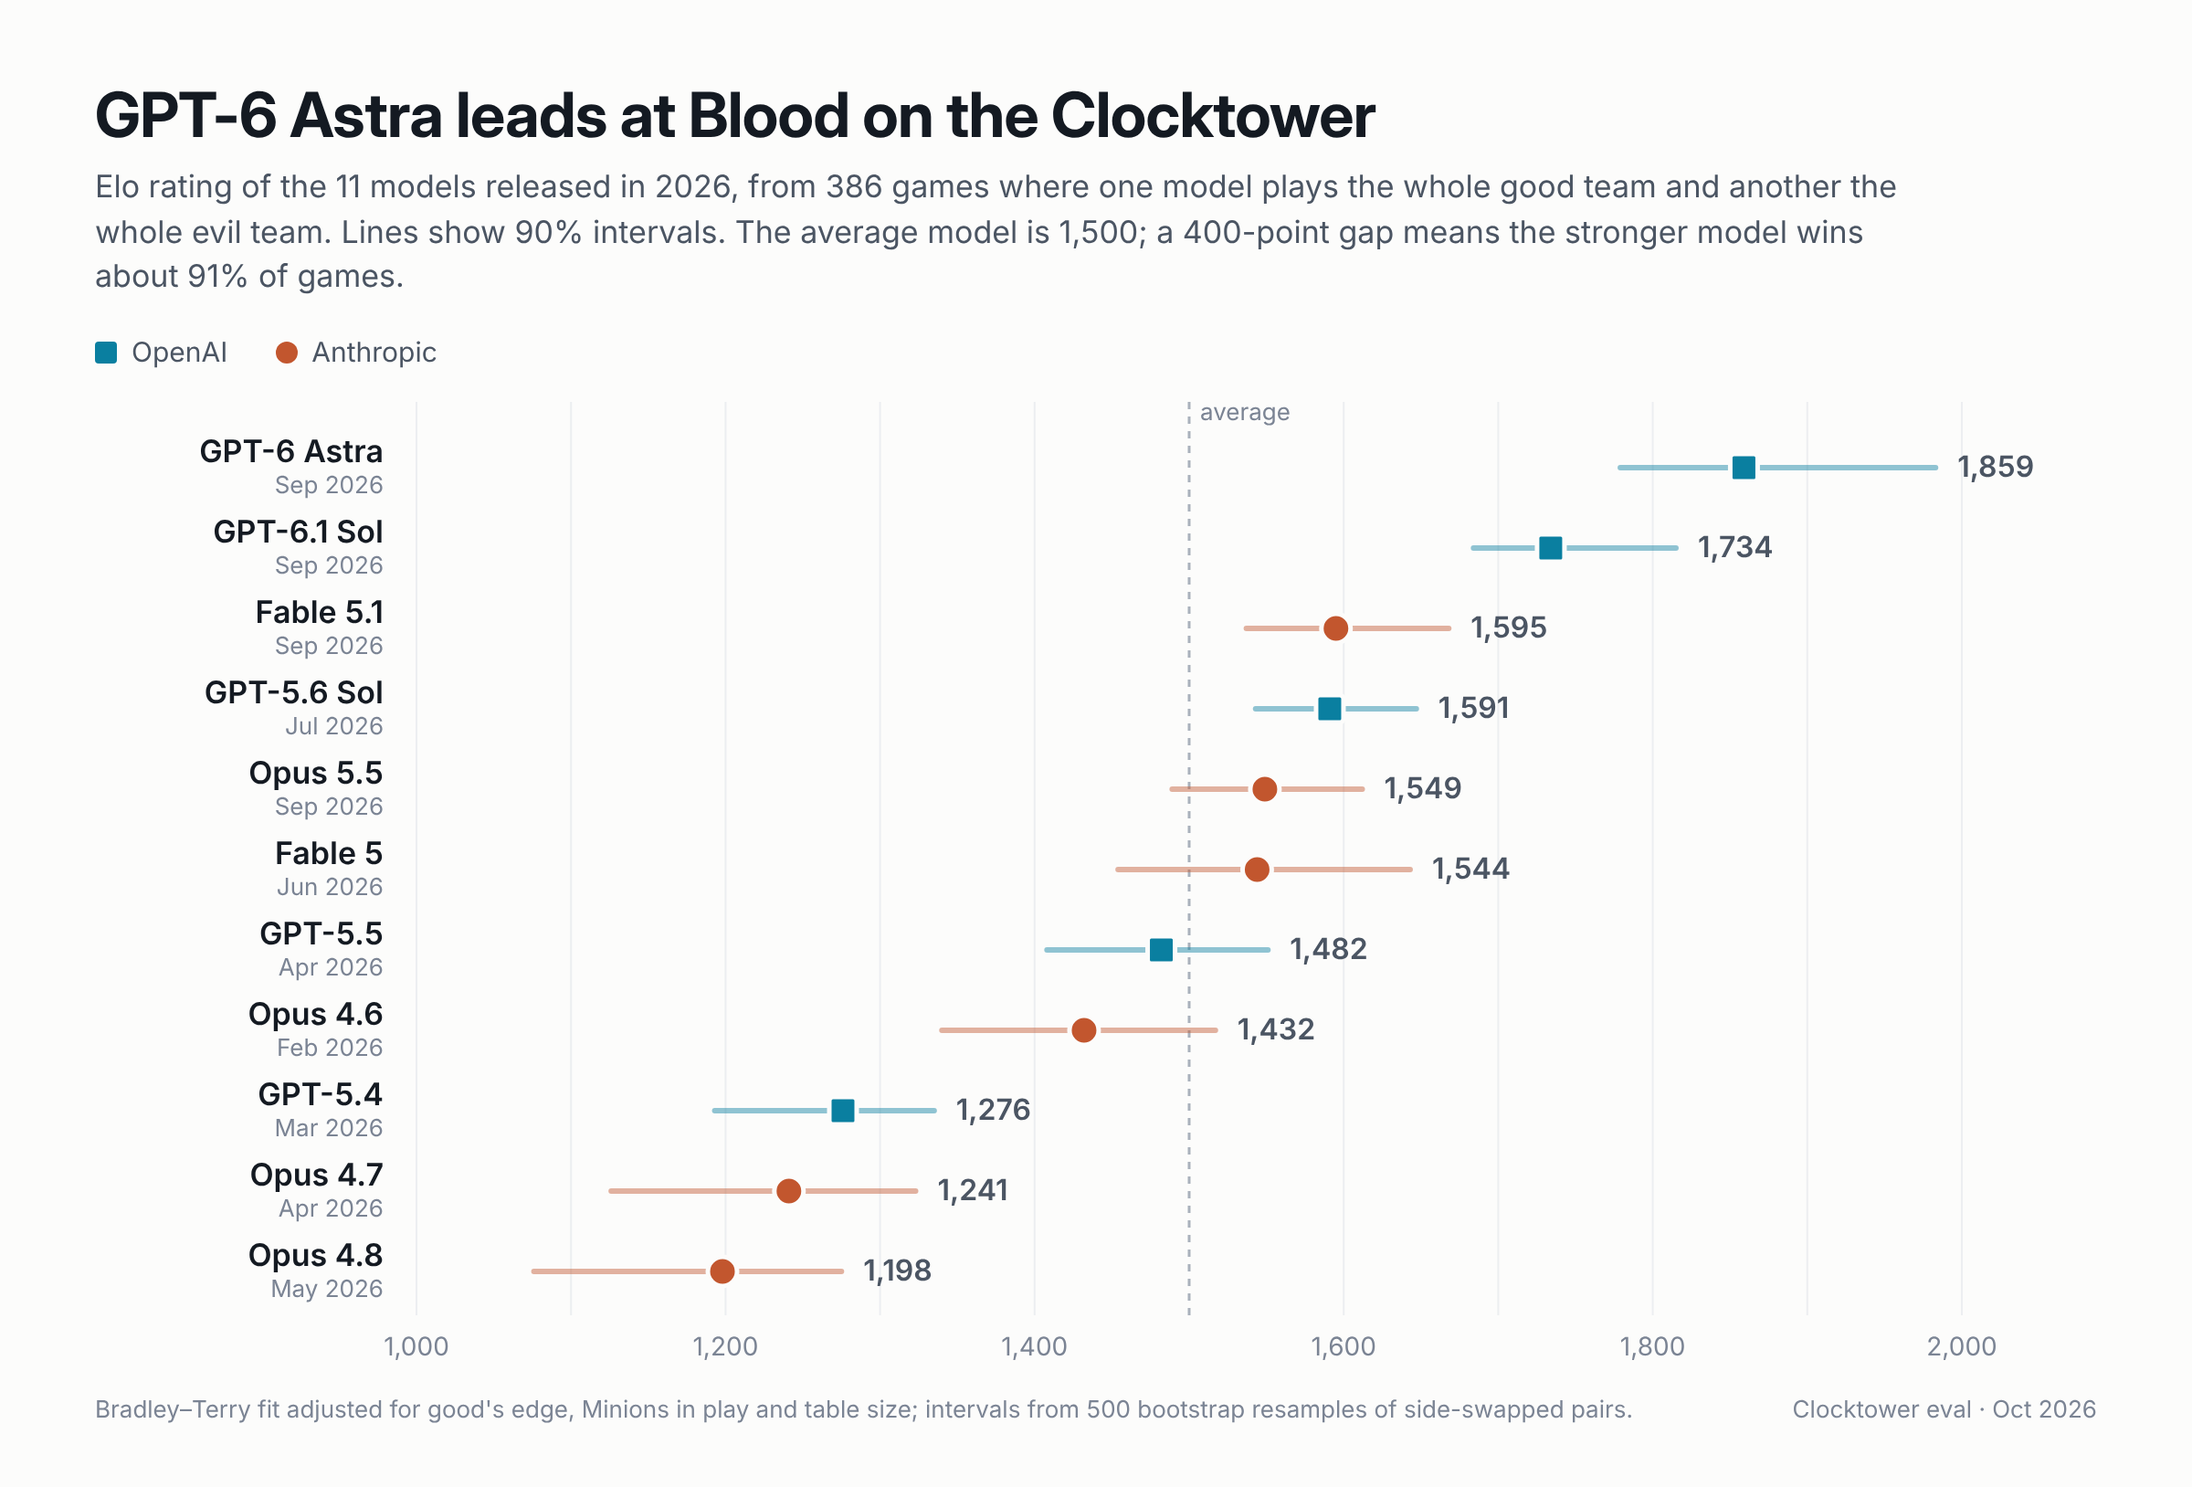
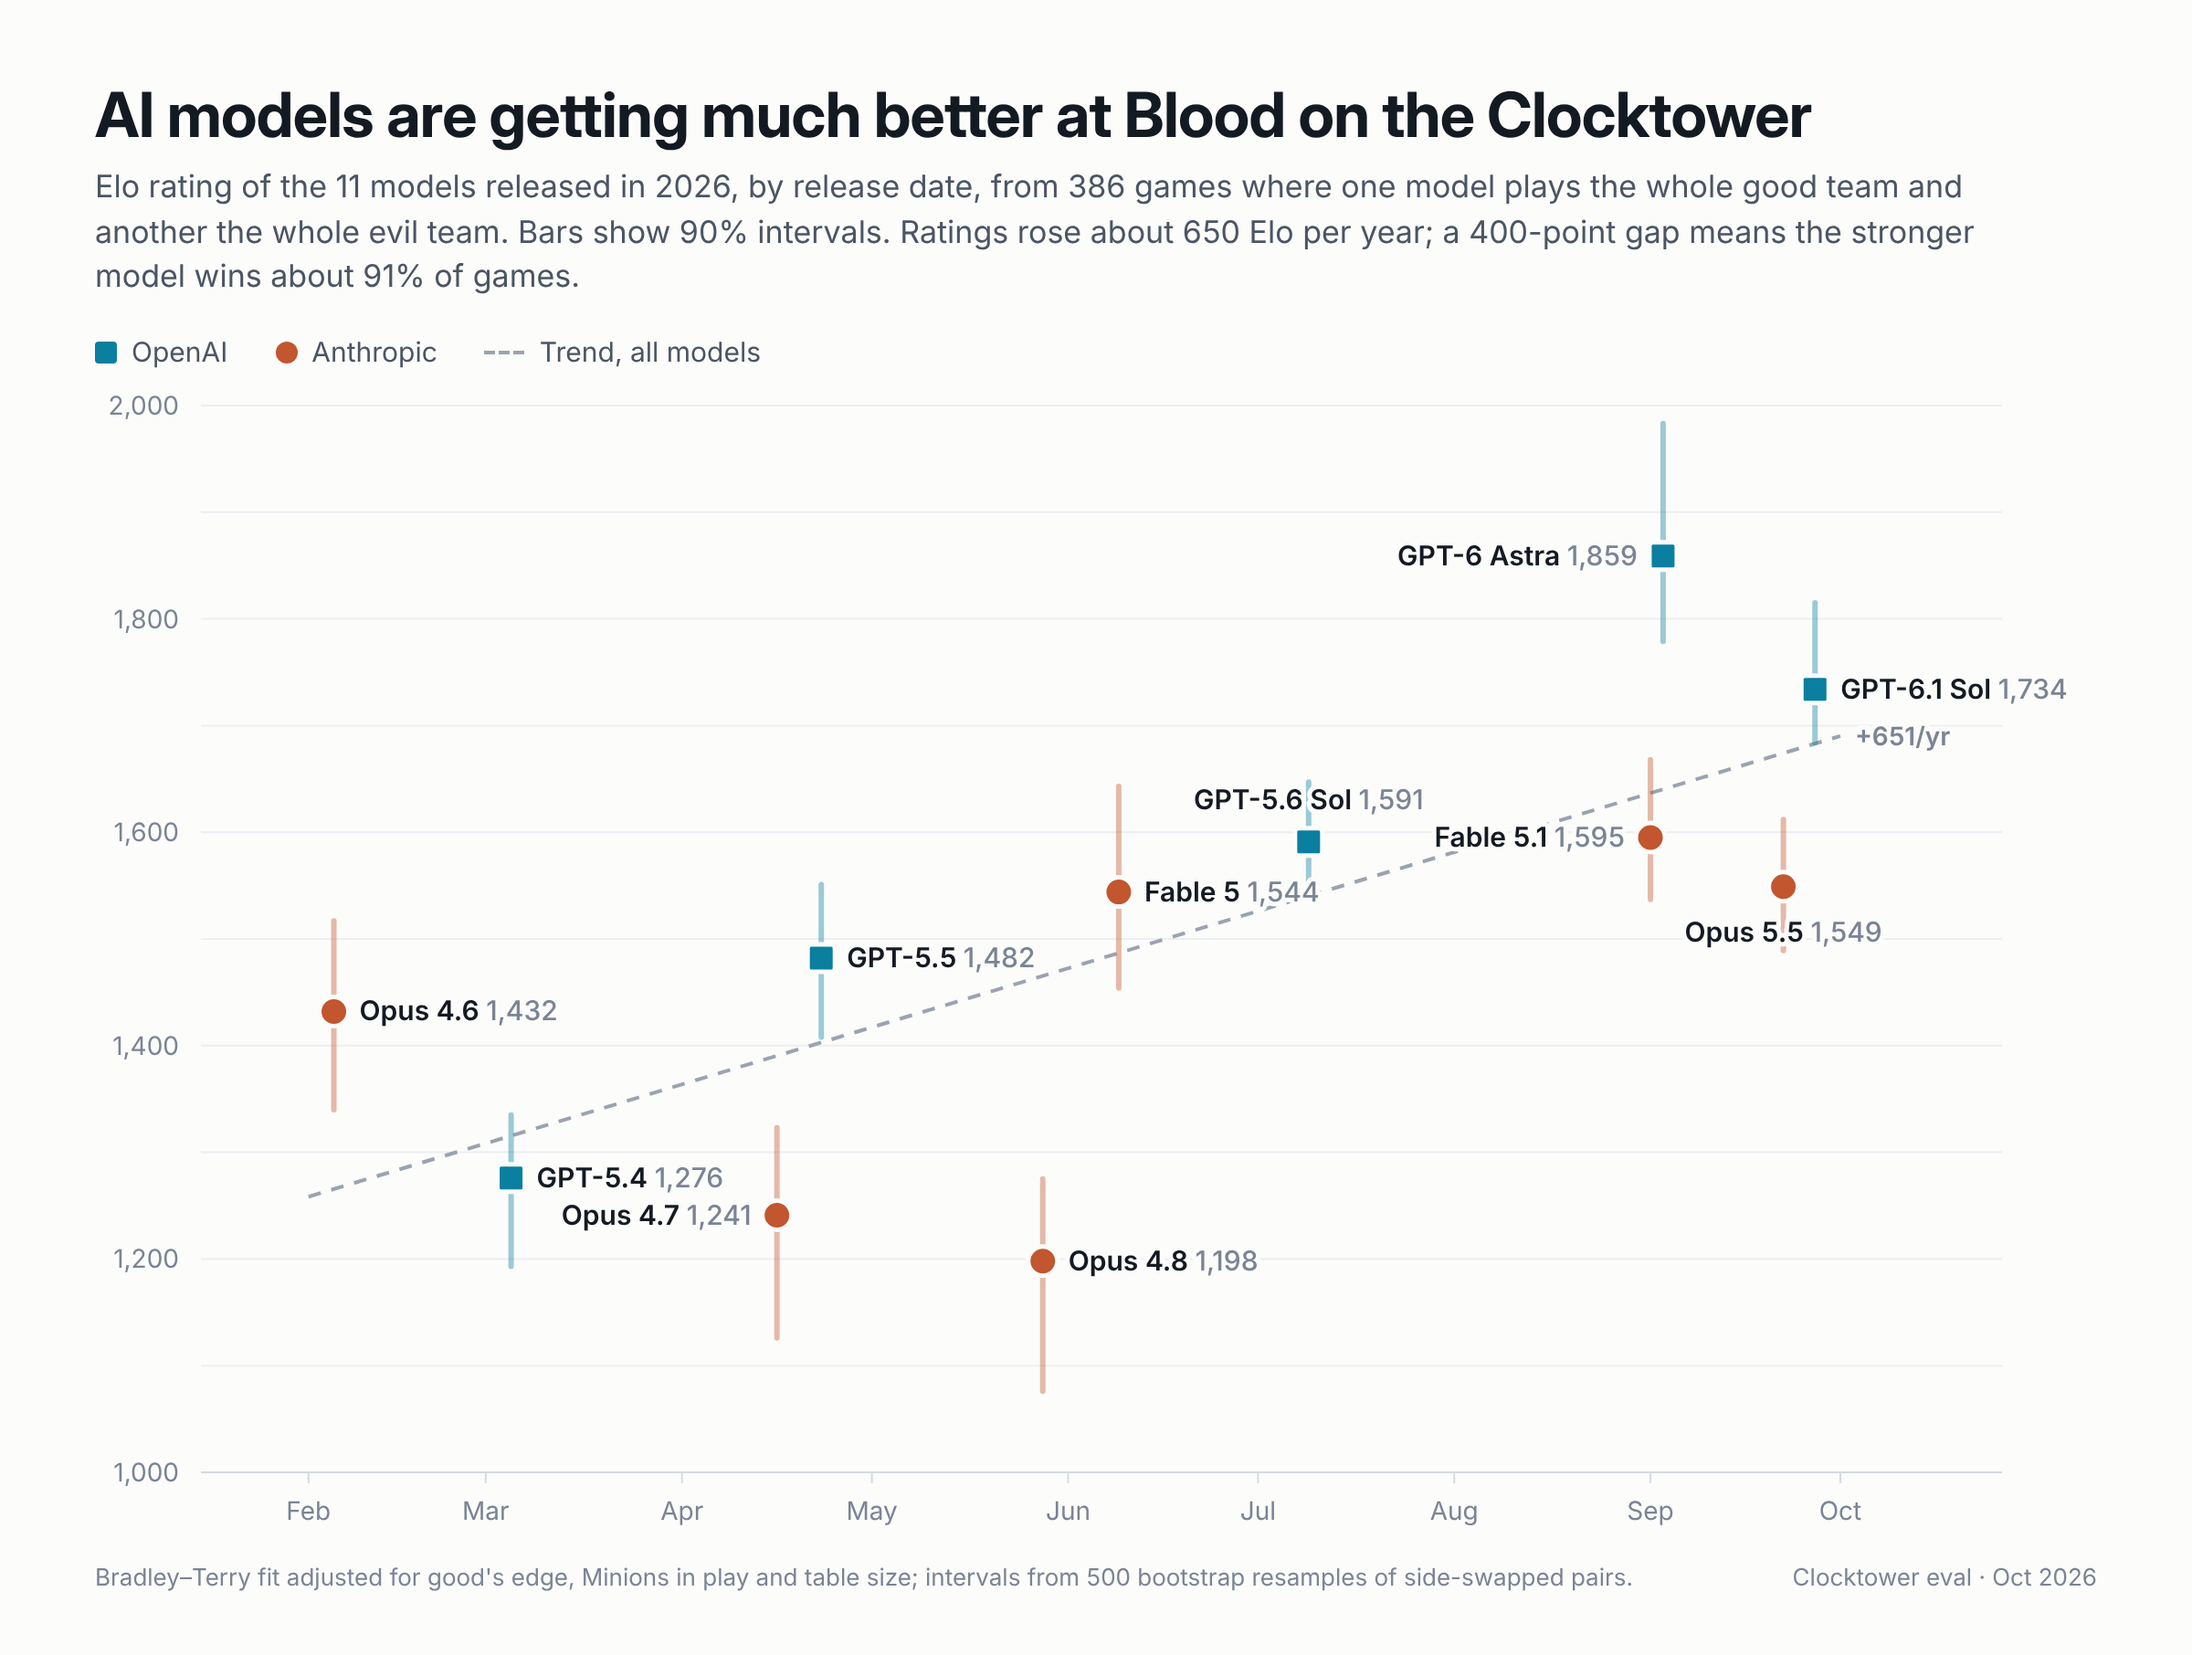
Final ratings chart: release date on the x axis, trend line, no average line
Claude-Session: https://claude.ai/code/session_01NeG7uqGziC8ecmubxuFhiw

diff --git a/docs/charts/final-ratings.html b/docs/charts/final-ratings.html
@@ -1,42 +1,56 @@
 <!doctype html><meta charset="utf-8"><title>Clocktower final ratings</title>
 <style>
-/* Static chart for the blog (rendered to PNG by final-ratings.js): ranked dots with 90% intervals. */
+/* Static chart for the blog (rendered to PNG): Elo by release date with 90% intervals and the all-model trend. */
 :root{--bg:#fcfcfb;--ink:#141a22;--ink2:#4b5563;--muted:#7b8494;--grid:#eceef1;--rule:#d6dae0;--anth:#C2562E;--oai:#0A7FA0}
 html,body{margin:0;background:var(--bg)}
 body{width:1200px;font-family:Inter,system-ui,sans-serif;color:var(--ink)}
 .wrap{padding:44px 52px 34px}
 h1{font:700 34px/1.15 "Inter Display",Inter,sans-serif;margin:0 0 8px;letter-spacing:-.01em}
-.sub{font-size:17px;line-height:1.45;color:var(--ink2);margin:0 0 18px;max-width:1000px}
-.legend{display:flex;gap:26px;font-size:15px;color:var(--ink2);margin-bottom:6px;align-items:center}
+.sub{font-size:17px;line-height:1.45;color:var(--ink2);margin:0 0 18px;max-width:1040px}
+.legend{display:flex;gap:26px;font-size:15px;color:var(--ink2);margin-bottom:4px;align-items:center}
 .legend i{display:inline-block;width:12px;height:12px;margin-right:8px;vertical-align:-1px}
+.legend b{display:inline-block;width:22px;border-top:2px dashed #9aa3af;margin-right:8px;vertical-align:4px}
 svg text{font-family:Inter,sans-serif}
-.foot{font-size:13px;color:var(--muted);margin-top:6px;display:flex;justify-content:space-between}
+.foot{font-size:13px;color:var(--muted);margin-top:6px;display:flex;justify-content:space-between;gap:20px}
 </style>
 <div class="wrap">
-  <h1>GPT-6 Astra leads at Blood on the Clocktower</h1>
-  <p class="sub">Elo rating of the 11 models released in 2026, from 386 games where one model plays the whole good team and another the whole evil team. Lines show 90% intervals. The average model is 1,500; a 400-point gap means the stronger model wins about 91% of games.</p>
-  <div class="legend"><span><i style="background:var(--oai);border-radius:2px"></i>OpenAI</span><span><i style="background:var(--anth);border-radius:50%"></i>Anthropic</span></div>
+  <h1>AI models are getting much better at Blood on the Clocktower</h1>
+  <p class="sub">Elo rating of the 11 models released in 2026, by release date, from 386 games where one model plays the whole good team and another the whole evil team. Bars show 90% intervals. Ratings rose about 650 Elo per year; a 400-point gap means the stronger model wins about 91% of games.</p>
+  <div class="legend"><span><i style="background:var(--oai);border-radius:2px"></i>OpenAI</span><span><i style="background:var(--anth);border-radius:50%"></i>Anthropic</span><span><b></b>Trend, all models</span></div>
   <svg id="c"></svg>
   <div class="foot"><span>Bradley–Terry fit adjusted for good's edge, Minions in play and table size; intervals from 500 bootstrap resamples of side-swapped pairs.</span><span>Clocktower eval · Oct 2026</span></div>
 </div>
 <script>
 const D=__DATA__;
 const N={'claude-opus-4-6':'Opus 4.6','gpt-5.4':'GPT-5.4','claude-opus-4-7':'Opus 4.7','gpt-5.5':'GPT-5.5','claude-opus-4-8':'Opus 4.8','claude-fable-5':'Fable 5','gpt-5.6-sol':'GPT-5.6 Sol','claude-fable-5-1':'Fable 5.1','gpt-6-astra':'GPT-6 Astra','claude-opus-5-5':'Opus 5.5','gpt-6.1-sol':'GPT-6.1 Sol'};
+// label side per model, chosen so neighbours with close release dates don't collide
+const SIDE={'gpt-6-astra':'left','claude-fable-5-1':'left','claude-opus-5-5':'below','gpt-6.1-sol':'right','gpt-5.6-sol':'above','claude-opus-4-7':'left','gpt-5.5':'right'};
 const MON=['Jan','Feb','Mar','Apr','May','Jun','Jul','Aug','Sep','Oct','Nov','Dec'];
-const rows=[...D.models].sort((a,b)=>b.combined-a.combined);
 const NS='http://www.w3.org/2000/svg',svg=document.getElementById('c');
 const el=(t,a,x)=>{const e=document.createElementNS(NS,t);for(const k in a)e.setAttribute(k,a[k]);if(x!=null)e.textContent=x;svg.appendChild(e);return e};
-const W=1096,RH=44,T=22,B=40,L=176,R=74,H=T+B+RH*rows.length,lo=1000,hi=2000,x=v=>L+(v-lo)/(hi-lo)*(W-L-R);
+const W=1096,H=640,L=58,R=92,T=16,B=40,lo=1000,hi=2000;
+const day=s=>Date.UTC(+s.slice(0,4),+s.slice(5,7)-1,+s.slice(8,10)),t0=Date.UTC(2026,0,15),t1=Date.UTC(2026,9,15);
+const x=s=>L+(day(s)-t0)/(t1-t0)*(W-L-R), y=v=>T+(hi-v)/(hi-lo)*(H-T-B);
 svg.setAttribute('width',W);svg.setAttribute('height',H);
-for(let v=lo;v<=hi;v+=100){el('line',{x1:x(v),x2:x(v),y1:T-10,y2:H-B+6,stroke:v===1500?'#aab1bc':'#eceef1','stroke-width':v===1500?1.5:1,'stroke-dasharray':v===1500?'4 4':''});
-  if(v%200===0)el('text',{x:x(v),y:H-B+28,'text-anchor':'middle','font-size':14,fill:'#7b8494'},v.toLocaleString('en-US'))}
-el('text',{x:x(1500)+6,y:T-0,'font-size':13,fill:'#7b8494'},'average');
-rows.forEach((m,i)=>{const y=T+RH*i+RH/2,c=m.lab==='Anthropic'?'#C2562E':'#0A7FA0',mon=MON[+m.date.slice(5,7)-1];
-  el('text',{x:L-18,y:y+1,'text-anchor':'end','font-size':17,'font-weight':600,fill:'#141a22'},N[m.id]);
-  el('text',{x:L-18,y:y+18,'text-anchor':'end','font-size':13,fill:'#7b8494'},mon+' 2026');
-  el('line',{x1:x(m.c90[0]),x2:x(m.c90[1]),y1:y+4,y2:y+4,stroke:c,'stroke-width':3,'stroke-linecap':'round','stroke-opacity':.45});
-  if(m.lab==='Anthropic')el('circle',{cx:x(m.combined),cy:y+4,r:8,fill:c,stroke:'#fcfcfb','stroke-width':2.5});
-  else el('rect',{x:x(m.combined)-7.5,y:y+4-7.5,width:15,height:15,rx:2,fill:c,stroke:'#fcfcfb','stroke-width':2.5});
-  el('text',{x:x(m.c90[1])+12,y:y+9,'font-size':16,'font-weight':600,fill:'#4b5563','font-variant-numeric':'tabular-nums'},m.combined.toLocaleString('en-US'));
-});
+for(let v=lo;v<=hi;v+=100){el('line',{x1:L,x2:W-R+40,y1:y(v),y2:y(v),stroke:'#eceef1'});
+  if(v%200===0)el('text',{x:L-12,y:y(v)+5,'text-anchor':'end','font-size':14,fill:'#7b8494'},v.toLocaleString('en-US'))}
+for(let m=1;m<=9;m++){const s=`2026-${String(m+1).padStart(2,'0')}-01`;
+  el('line',{x1:x(s),x2:x(s),y1:H-B,y2:H-B+6,stroke:'#d6dae0'});
+  el('text',{x:x(s),y:H-B+26,'text-anchor':'middle','font-size':14,fill:'#7b8494'},MON[m]+' 2026'.slice(0,0))}
+el('line',{x1:L,x2:W-R+40,y1:H-B,y2:H-B,stroke:'#d6dae0'});
+// least-squares trend over release date, all models
+const ms=D.models, yr=s=>(day(s)-Date.UTC(2026,0,1))/864e5/365, xs=ms.map(m=>yr(m.date)), vs=ms.map(m=>m.combined);
+const mx=xs.reduce((a,b)=>a+b)/xs.length, my=vs.reduce((a,b)=>a+b)/vs.length;
+const sl=xs.reduce((a,t,i)=>a+(t-mx)*(vs[i]-my),0)/xs.reduce((a,t)=>a+(t-mx)**2,0), f=s=>my+sl*(yr(s)-mx);
+el('line',{x1:x('2026-02-01'),y1:y(f('2026-02-01')),x2:x('2026-10-01'),y2:y(f('2026-10-01')),stroke:'#9aa3af','stroke-width':2,'stroke-dasharray':'7 6'});
+el('text',{x:x('2026-10-01')+8,y:y(f('2026-10-01'))+5,'font-size':14,'font-weight':600,fill:'#7b8494',stroke:'#fcfcfb','stroke-width':5,'paint-order':'stroke'},`+${D.trend_per_year.c[0]}/yr`);
+for(const m of ms){const c=m.lab==='Anthropic'?'#C2562E':'#0A7FA0',cx=x(m.date),cy=y(m.combined);
+  el('line',{x1:cx,x2:cx,y1:y(m.c90[0]),y2:y(m.c90[1]),stroke:c,'stroke-width':3,'stroke-linecap':'round','stroke-opacity':.4})}
+for(const m of ms){const c=m.lab==='Anthropic'?'#C2562E':'#0A7FA0',cx=x(m.date),cy=y(m.combined),side=SIDE[m.id]||'right';
+  if(m.lab==='Anthropic')el('circle',{cx,cy,r:8,fill:c,stroke:'#fcfcfb','stroke-width':2.5});
+  else el('rect',{x:cx-7.5,y:cy-7.5,width:15,height:15,rx:2,fill:c,stroke:'#fcfcfb','stroke-width':2.5});
+  const [lx,ly,an]=side==='left'?[cx-14,cy+5,'end']:side==='below'?[cx,cy+30,'middle']:side==='above'?[cx,cy-18,'middle']:[cx+14,cy+5,'start'];
+  const t=el('text',{x:lx,y:ly,'text-anchor':an,'font-size':15,'font-weight':600,fill:'#141a22',stroke:'#fcfcfb','stroke-width':5,'paint-order':'stroke','stroke-linejoin':'round'},N[m.id]+' ');
+  const n=document.createElementNS(NS,'tspan');n.setAttribute('fill','#7b8494');n.setAttribute('font-weight','500');n.textContent=m.combined.toLocaleString('en-US');t.appendChild(n);
+}
 </script>
